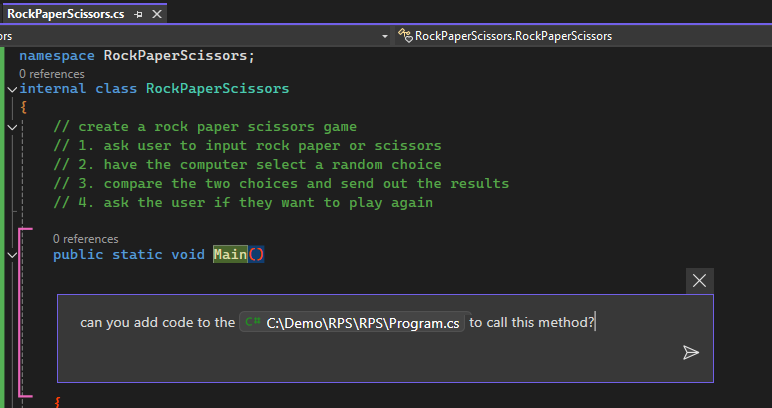
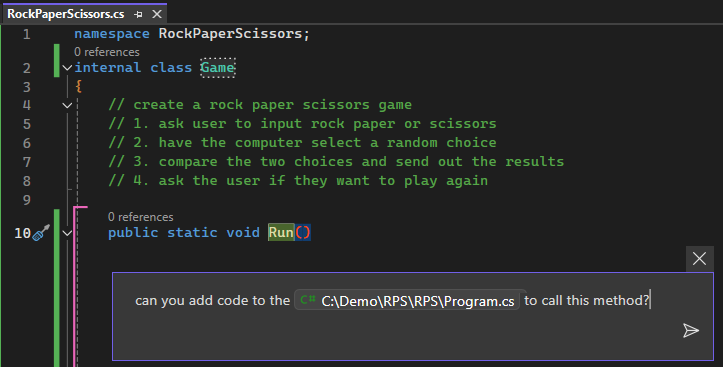
Update lab 1

Changed region(s): [[0.0, 0.0, 1.0, 1.0]]

diff --git a/src/RPS-Step-01b-Functioning/RockPaperScissors.cs b/src/RPS-Step-01b-Functioning/RockPaperScissors.cs
@@ -1,5 +1,5 @@
 namespace RockPaperScissors;
-internal class RockPaperScissors
+internal class Game
 {
     // create a rock paper scissors game
     // 1. ask user to input rock paper or scissors
@@ -7,7 +7,7 @@ internal class RockPaperScissors
     // 3. compare the two choices and send out the results
     // 4. ask the user if they want to play again
 
-    public static void Main()
+    public static void Run()
     {
         Console.WriteLine("Welcome to Rock Paper Scissors!");
         bool playAgain = true;

diff --git a/src/RPS-Step-01b-Functioning/Program.cs b/src/RPS-Step-01b-Functioning/Program.cs
@@ -1,0 +1,4 @@
+
+Console.WriteLine("Hello, World!");
+
+RockPaperScissors.Game.Run(); // Call the Run method from the Game class

diff --git a/Labs/RPS-Lab-1/README.md b/Labs/RPS-Lab-1/README.md
@@ -121,19 +121,18 @@ Now that the suggestion looks good, let's accept it!
 
 ### Step 9: Running the program
 
-Your program should build successfully now.  However, since we added this method in it's own class, we need to make sure we call it from our main method.  Let's ask GitHub Copilot to help us with that!  
+Your program should build successfully now.  However, since we added this method in it's own class, we need to make sure we call it from our main method.
 
-Note that I've used the "#" directive to tell Copilot WHERE to add to code into.
+Before we ask GitHub Copilot to help us with that, let's rename the class from "RockPaperScissors" to "Game" (line 2 below) to make it more descriptive, and change the main function name from "Main" to "Run" (line 10 below).
+
+Now let's ask Copilot to help us call this program!  Note that I've used the "#" directive to tell Copilot WHERE to add to code into.
 
 ![Refine the suggestions](images/RPS_110.png)
 
-You can see that Copilot has added a method call to this file, but it's not quite right and is throwing an error.  Let's ask Copilot to explain why it doesn't work.
+You can see that Copilot has added a method call to this file, but it's not quite right and is throwing an error.  Visual Studio can easily fix that for you by simply putting your cursor on the error and press Control+".". You will get a menu with possible fixes - pick the second option to add the namespace "RockPaperScissors" in from of the class name and that should fix it.
 ![Refine the suggestions](images/RPS_120.png)
 
- I need to add the namespace in front of the method call - not sure why Copilot didn't do that.
-![Refine the suggestions](images/RPS_130.png)
-
-Yea!  Now it should build!  Your final result when you run the code again might look something like this.
+ Yea!  Now it should build!  Press F5 to run your program and it should look something like this:
 ![Refine the suggestions](images/RPS_140.png)
 
 That is it! Congratulation on finishing your first exercise with Copilot. You can try to write more complicated code and see how Copilot can help you.
